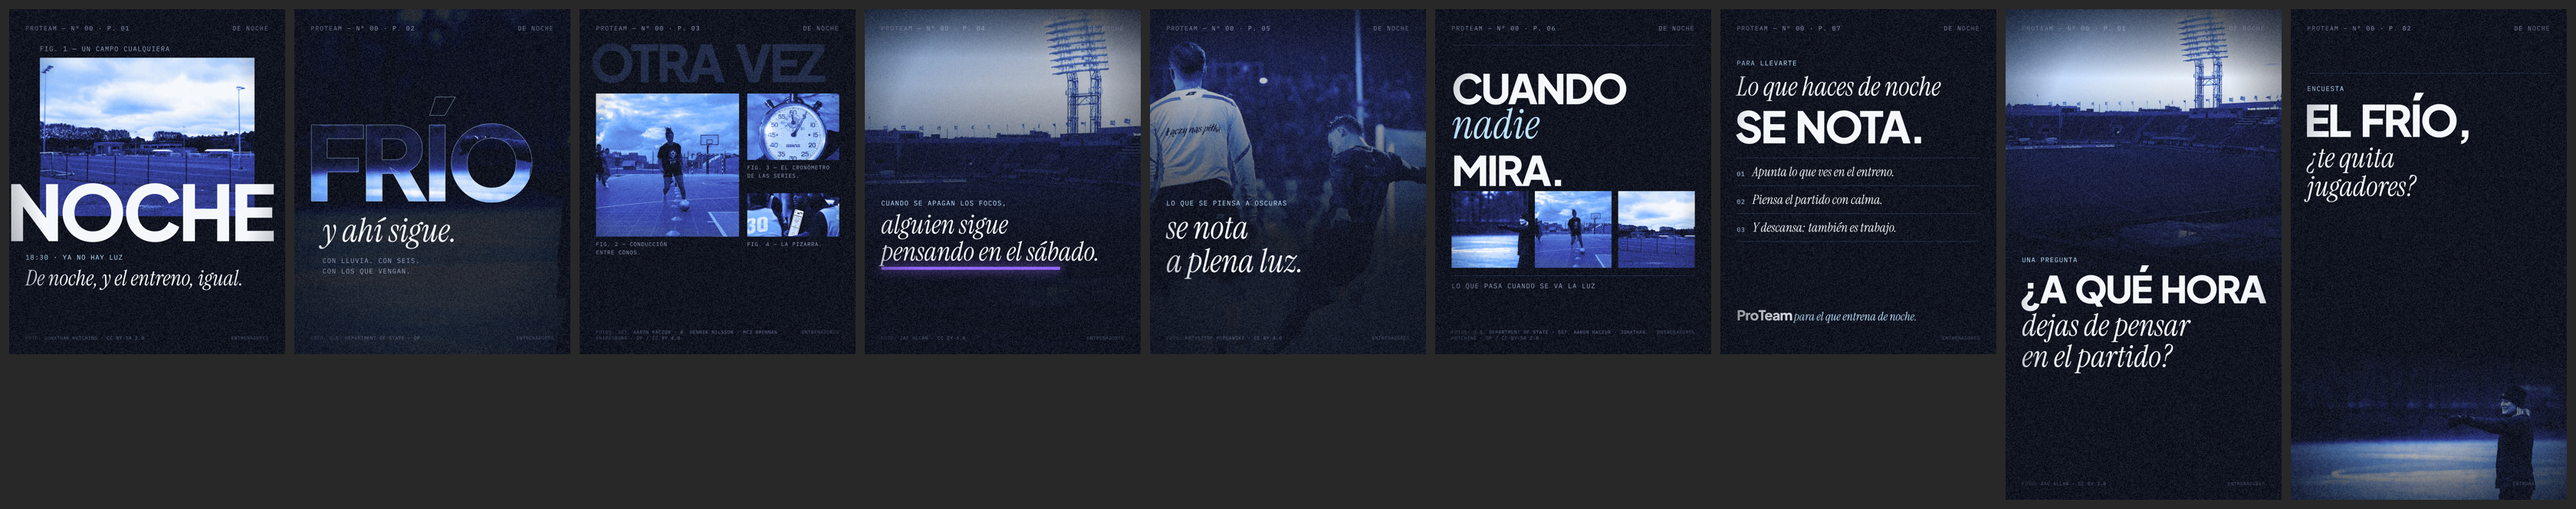
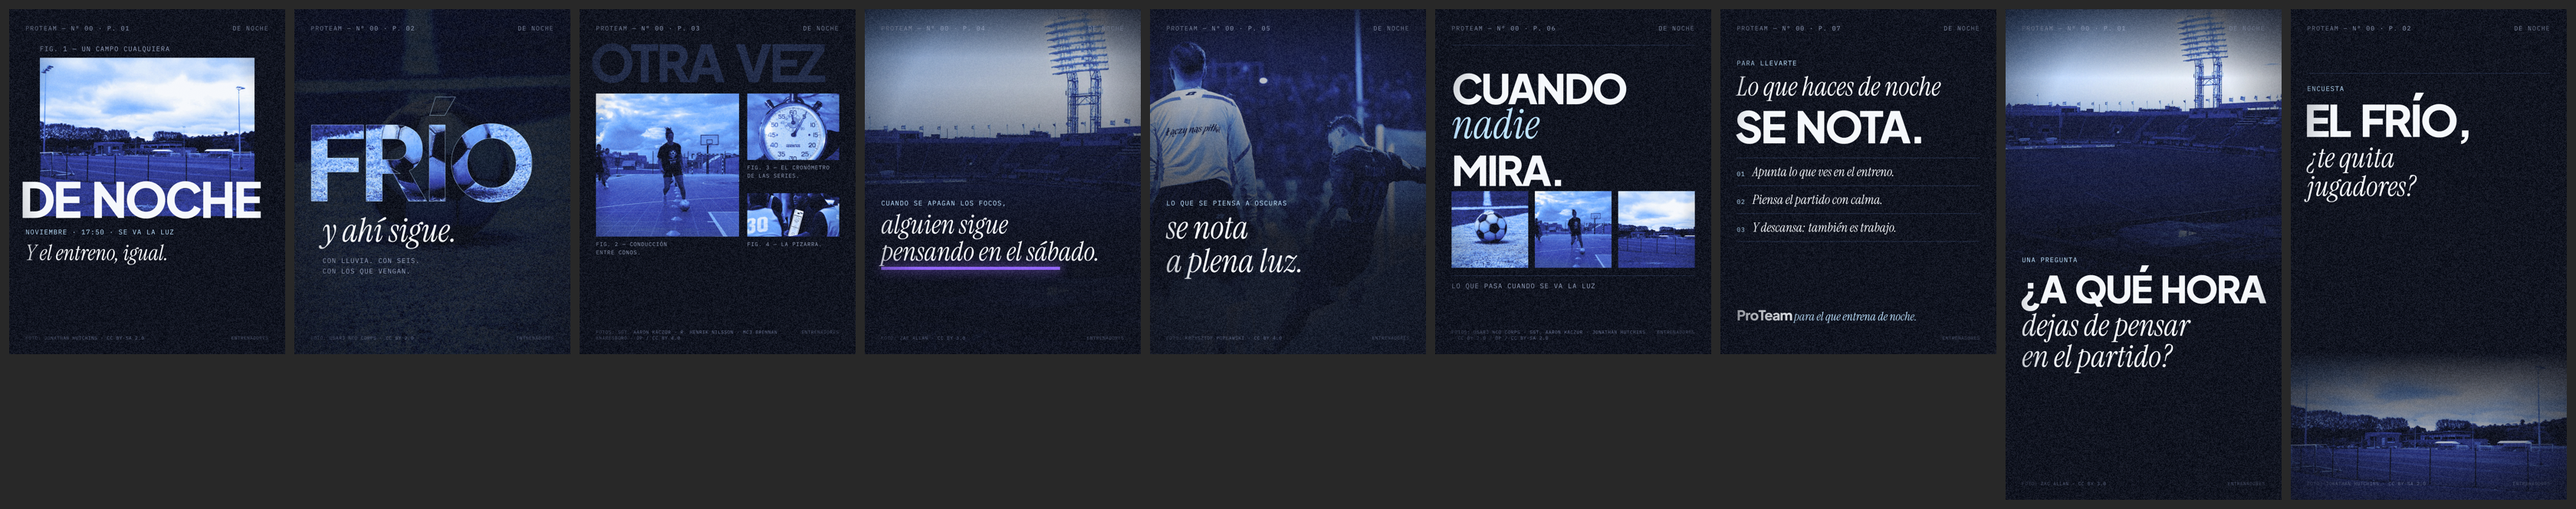
Clara (04): E02 «De noche» láminas alineadas con el reel remontado (sin foto de persona conocida, 17:50, FRÍO con balón)

diff --git a/agencia/fabrica-v4/carruseles/E02/PANEL.md b/agencia/fabrica-v4/carruseles/E02/PANEL.md
@@ -1,8 +1,12 @@
 # E02 · Carrusel y Stories — para el panel
 Pendiente (la sesión no puede subir archivos al panel sin republicar index.html): subir `png/E02-c1…c7.png`, `E02-s1.png`, `E02-s2.png` a `media/v4-E02-c1.png…`, `media/v4-E02-s1.png`, `media/v4-E02-s2.png` y escribir:
 - `posts/v4-E02-carrusel` {type:"carrusel", title:"De noche", tema:"v4 · Calentamiento · vie 27/11", status:"listo", slides:[media/v4-E02-c1..c7.png], cover:"media/v4-E02-c1.png", agent:"Clara", order: el mayor + 1}
-  caption: «18:30 y ya no hay luz.\nCon frío, con lluvia, con seis, con los que vengan.\nY cuando se apagan los focos, alguien sigue pensando en el sábado.»
+  caption: «Noviembre, 17:50, y se va la luz.\nCon frío, con lluvia, con seis, con los que vengan.\nY cuando se apagan los focos, alguien sigue pensando en el sábado.»
 - `posts/v4-E02-story1` {type:"story", short:"Pregunta", title:"¿A qué hora dejas de pensar en el partido?", slides:[media/v4-E02-s1.png], status:"listo", tema:"v4 · Calentamiento · vie 27/11", agent:"Clara"} — sticker de pregunta a mano.
 - `posts/v4-E02-story2` {type:"story", short:"Encuesta", title:"El frío, ¿te quita jugadores?", slides:[media/v4-E02-s2.png], status:"listo", tema:"v4 · Calentamiento · vie 27/11", agent:"Clara"} — sticker de encuesta a mano: «Sí, siempre» / «Vienen igual».
 
-Láminas: 1 NOCHE (campo, 18:30) · 2 FRÍO y ahí sigue · 3 OTRA VEZ (conos, cronómetro, pizarra) · 4 ultravioleta en «alguien sigue pensando en el sábado» · 5 Lo que se piensa a oscuras se nota a plena luz · 6 CUANDO nadie MIRA · 7 Lo que haces de noche SE NOTA (apunta lo que ves, piensa el partido con calma, descansa). Sin app ni fecha (calentamiento).
+Láminas: 1 DE NOCHE (campo, «Noviembre · 17:50 · Se va la luz») · 2 FRÍO y ahí sigue (balón en la línea, como el reel) · 3 OTRA VEZ (conos, cronómetro, pizarra) · 4 ultravioleta en «alguien sigue pensando en el sábado» · 5 Lo que se piensa a oscuras se nota a plena luz · 6 CUANDO nadie MIRA · 7 Lo que haces de noche SE NOTA (apunta lo que ves, piensa el partido con calma, descansa). Sin app ni fecha (calentamiento).
+
+
+## 24/11, 14:30 — alineado con el reel remontado (c4a4149)
+Fuera ENTRENADOR_ENTRENADORA_INDICA_FOTO_001 (persona conocida, lo pidió Andrés): FRÍO lleva OBJETO_BALON_LINEA_FOTO_001, la lámina 6 también, y la Story 2 el campo (INSTALACION_CAMPO_ENTRENAMIENTO_FOTO_001). Lámina 1 = «DE NOCHE» y «Noviembre · 17:50 · Se va la luz», serif «Y el entreno, igual.». PNG re-renderizados. Subida al panel sigue pendiente: publicar media/ exige republicar index.html y el permiso se denegó.
